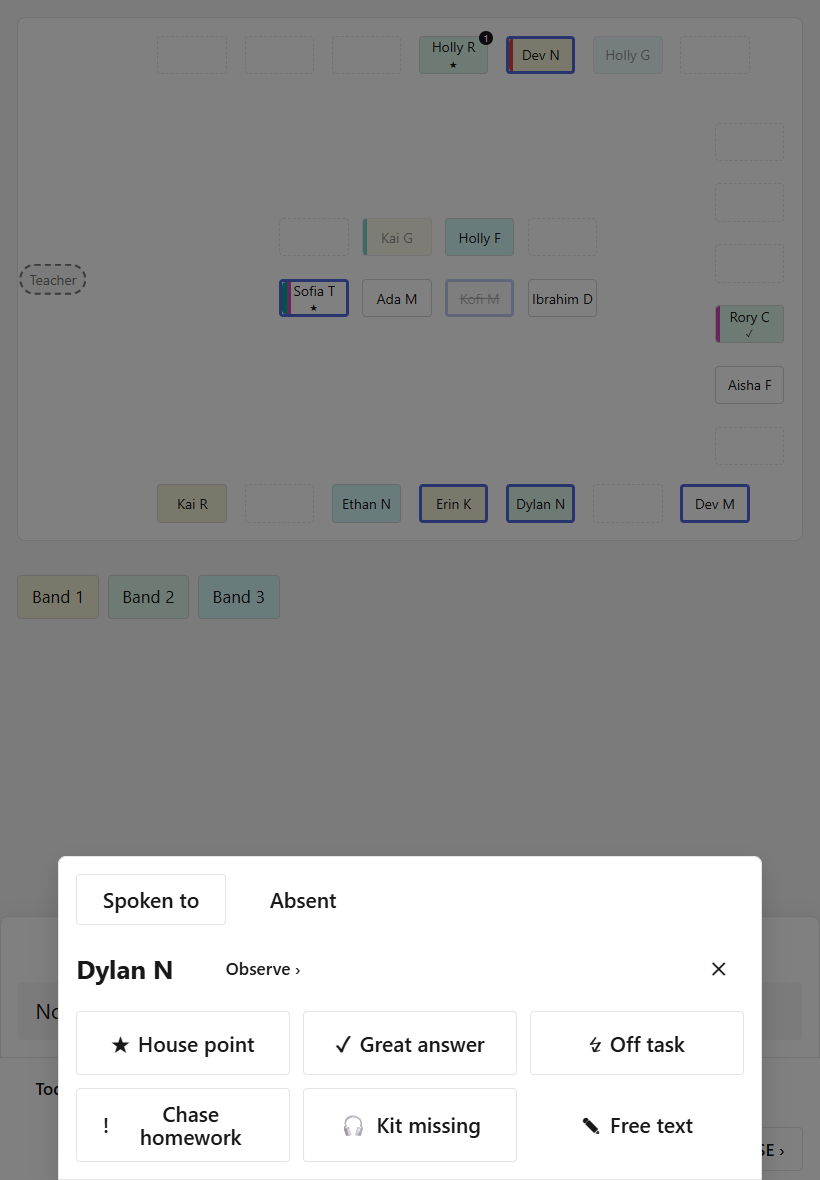
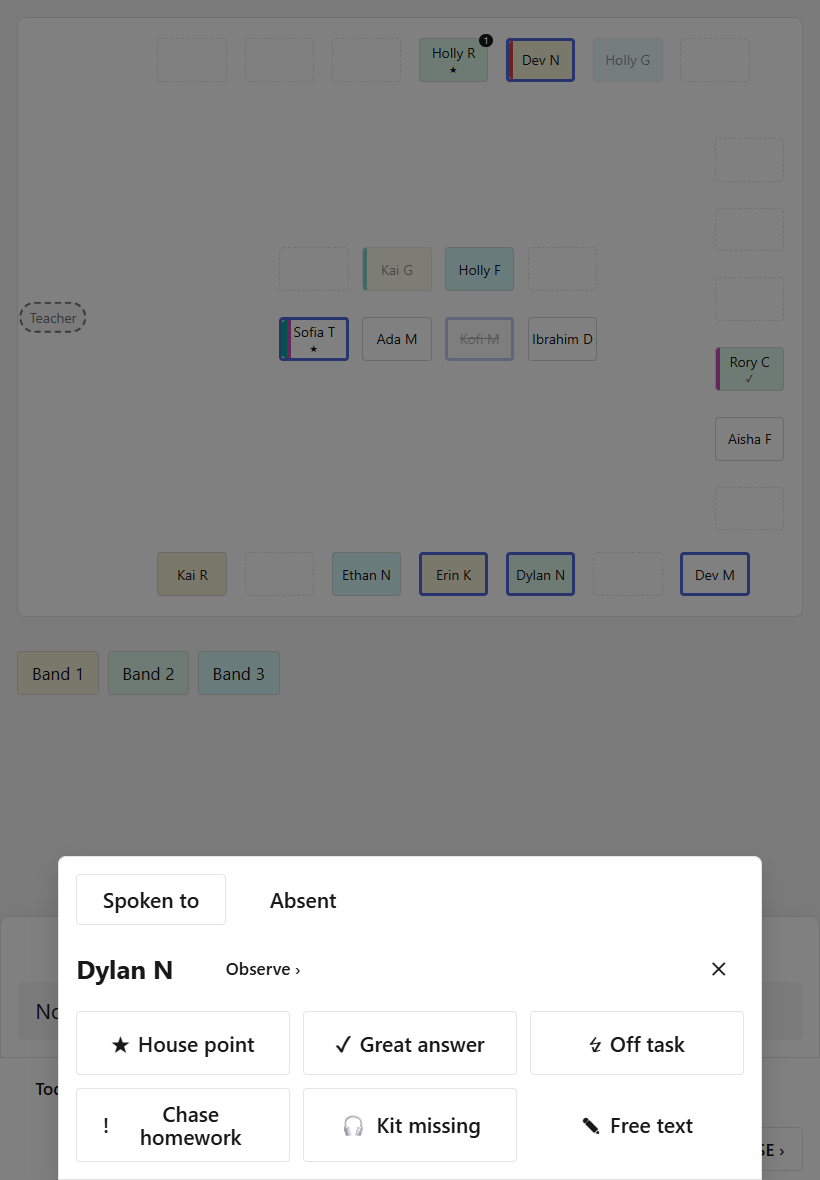
Let the room grow taller on an iPad so seats are 44 points

diff --git a/static/css/downbeat.css b/static/css/downbeat.css
@@ -325,6 +325,21 @@
   --seat-font: calc(var(--seat-w) / var(--canvas-w) * 100cqi * 0.2);
 }
 
+/* On an iPad the room's shape leaves seats under 44px tall. Seats are placed and sized as a share
+   of the canvas's height, so below desk width the canvas may grow taller than its shape (as far as
+   the screen allows), spreading the rows and bringing every seat up to a tappable 44px. Its width
+   is unchanged: the height is worked out from it rather than from a ratio, which would widen it. */
+@container room (width < 76rem) {
+  .room-layout__canvas .canvas {
+    --canvas-inline: min(100cqi - 2 * var(--space-s), (var(--canvas-max-block)) * var(--canvas-w) / var(--canvas-h));
+    aspect-ratio: auto;
+    block-size: max(
+      calc(var(--canvas-inline) * var(--canvas-h) / var(--canvas-w)),
+      min(calc(44px * var(--canvas-h) / var(--seat-h)), calc(var(--canvas-max-block)))
+    );
+  }
+}
+
 .room-layout__canvas .seat {
   cursor: pointer;
 }

diff --git a/docs/DECISIONS.md b/docs/DECISIONS.md
@@ -287,3 +287,7 @@ Choices the spec docs don't settle, made during the build. Newest at the bottom 
 **28 Oct 2026. A failed request is never silent, and never pastes an error into the page.** The seating editor swapped in whatever came back, so a server error would have put a whole error page inside the board. It now swaps only a board (including the 409 refusals, which are boards with a message) and otherwise says in the board's message line that the change wasn't saved, and why: the laptop out of reach, the page expired, or an error on the laptop. Every page also carries one alert line that HTMX's error events fill in, so any HTMX request that fails says so; no page sends one at present, but the gate already answers HTMX, so it is ready.
 
 **28 Oct 2026. A whole school fits in one form.** The rollover posts a few fields per pupil, and Django refuses a request with more than 1,000 fields; a school of several hundred pupils would have hit it with a 400. The limit is 10,000.
+
+**28 Oct 2026. On an iPad, seats grow to 44 points.** A review at the narrowest iPad found seats 35px tall in portrait (38px on a standard iPad), under UX.md's 44-point minimum: the room keeps its drawn shape and, width-limited, left most of the screen's height unused. Below desk width the room view's canvas may now grow taller than its shape, as far as the screen allows, until a seat is 44px; positions and heights are shares of the canvas's height, so rows spread apart and nothing overlaps, and the width is unchanged. In landscape the screen's height is the limit (43px on an iPad Air); the laptop's layout is untouched. The groups and unseated pupils below the room scroll into view above the docked panel.
+
+**28 Oct 2026. Pupils' records keep their unit.** Deleting a unit whose components had observations failed with a server error, and its summative judgements would have been deleted with it. A judgement now protects its unit, and deleting a unit or a component that records point at is refused with the reason; its words can still be changed.
